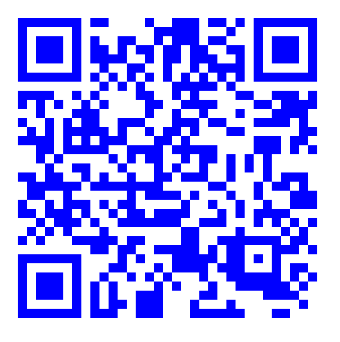
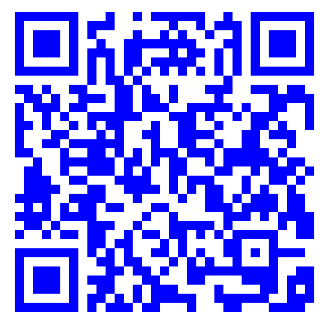
Added name and price to products qrcode tags

diff --git a/EmarketCustomer/app/src/main/java/com/emarket/customer/activities/BasketActivity.kt b/EmarketCustomer/app/src/main/java/com/emarket/customer/activities/BasketActivity.kt
@@ -164,25 +164,49 @@ class BasketActivity : AppCompatActivity() {
 
             val tag = ByteBuffer.wrap(content)
             val tId = tag.int
+            if (tId != Constants.TAG_ID) {
+                showToast(this, getString(R.string.error_invalid_qrcode))
+                return
+            }
+
             val id = UUID(tag.long, tag.long).toString()
-            // TODO check tId and verify size of tag / send price and name?
+            val euros = tag.int
+            val cents = tag.int
+            val price = euros + cents / 100.0
+            val bName = ByteArray(tag.get().toInt())
+            tag[bName]
+            val name = String(bName, StandardCharsets.ISO_8859_1)
 
             thread(start = true) {
+
                 val response = NetworkService.makeRequest(
                     RequestType.GET,
                     Constants.SERVER_URL + Constants.PRODUCT_ENDPOINT + "/$id")
 
                 val jsonResponse = JSONObject(response)
+                val newProductDTO: ProductDTO?
                 if (jsonResponse.has("error")) {
-                    runOnUiThread { showToast(this, getString(R.string.error_getting_product))}
+                    newProductDTO = ProductDTO(id, name, price, null)
                     Log.e("QRCode", jsonResponse.getString("error"))
+                    runOnUiThread { showToast(this, getString(R.string.error_fetching_prodcut))}
+                } else {
+                    val product = jsonResponse.get("product").toString()
+                    newProductDTO = Gson().fromJson(product, ProductDTO::class.java)
+                }
+
+                if (newProductDTO == null) {
+                    runOnUiThread { showToast(this, getString(R.string.error_getting_product))}
                     return@thread
                 }
-                val product = jsonResponse.get("product").toString()
-                val newProductDTO = Gson().fromJson(product, ProductDTO::class.java)
+
                 val oldProduct = productItems.find { it.uuid == newProductDTO.uuid }
                 if (oldProduct != null) {
                     oldProduct.quantity++
+
+                    if (newProductDTO.url != null && oldProduct.url == null) {
+                        oldProduct.url = newProductDTO.url
+                    }
+
                     runOnUiThread { updateProduct(oldProduct) }
                 } else {
                     val newProduct = Product(newProductDTO.uuid, newProductDTO.name, newProductDTO.price, newProductDTO.url)

diff --git a/EmarketCustomer/app/src/main/java/com/emarket/customer/Constants.kt b/EmarketCustomer/app/src/main/java/com/emarket/customer/Constants.kt
@@ -1,6 +1,9 @@
 package com.emarket.customer
 
 object Constants {
+    // Product Qr code Tag
+    const val TAG_ID = 0x41636D65                  // equal to "Acme"
+
     // Keys
     const val ENC_ALGO = "RSA/ECB/PKCS1Padding"
     const val SIGN_ALGO = "SHA256WithRSA"
@@ -21,7 +24,7 @@ object Constants {
     const val PAYMENT = "PAYMENT"
 
     // Server connection
-    const val SERVER_URL = "http://192.168.1.9:5000/"
+    const val SERVER_URL = "http://192.168.1.64:5000/"
     const val REGISTER_ENDPOINT = "register"
     const val PRODUCT_ENDPOINT = "product"
     const val USER_ENDPOINT = "user"

diff --git a/EmarketCustomer/app/src/main/java/com/emarket/customer/services/NetworkService.kt b/EmarketCustomer/app/src/main/java/com/emarket/customer/services/NetworkService.kt
@@ -38,7 +38,7 @@ class NetworkService {
                     }
                     setRequestProperty("Content-Type", "application/json")
                     setRequestProperty("Accept", "application/json")
-                    connectTimeout = 5000 // 5 seconds
+                    connectTimeout = 3000 // 3 seconds
                     useCaches = false
                 }
 
